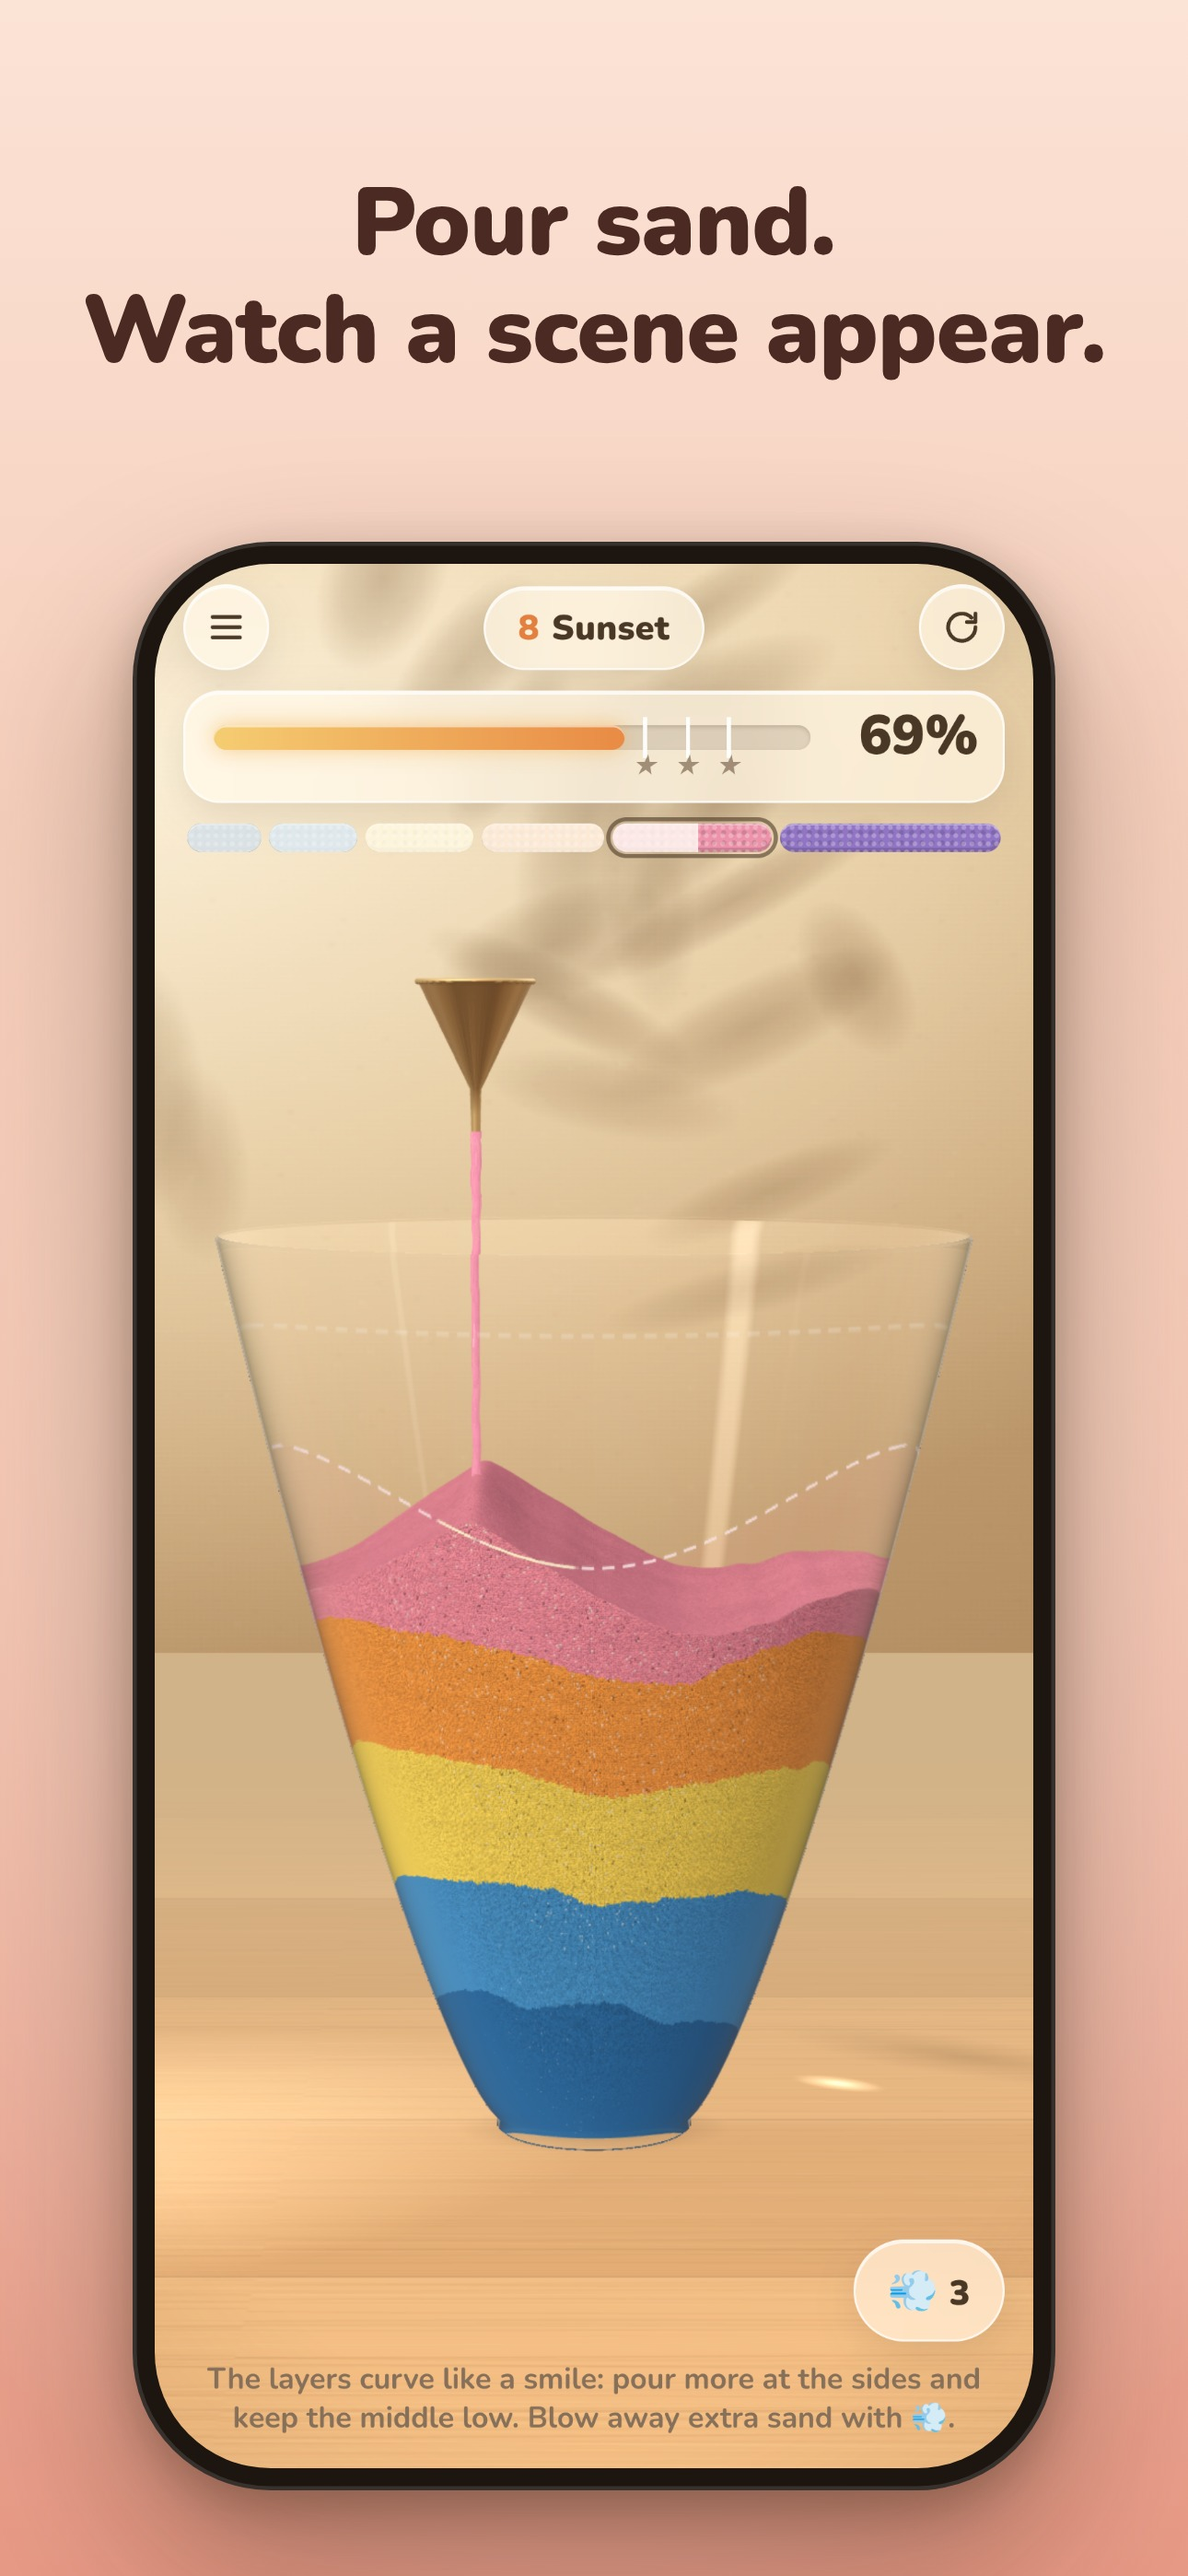
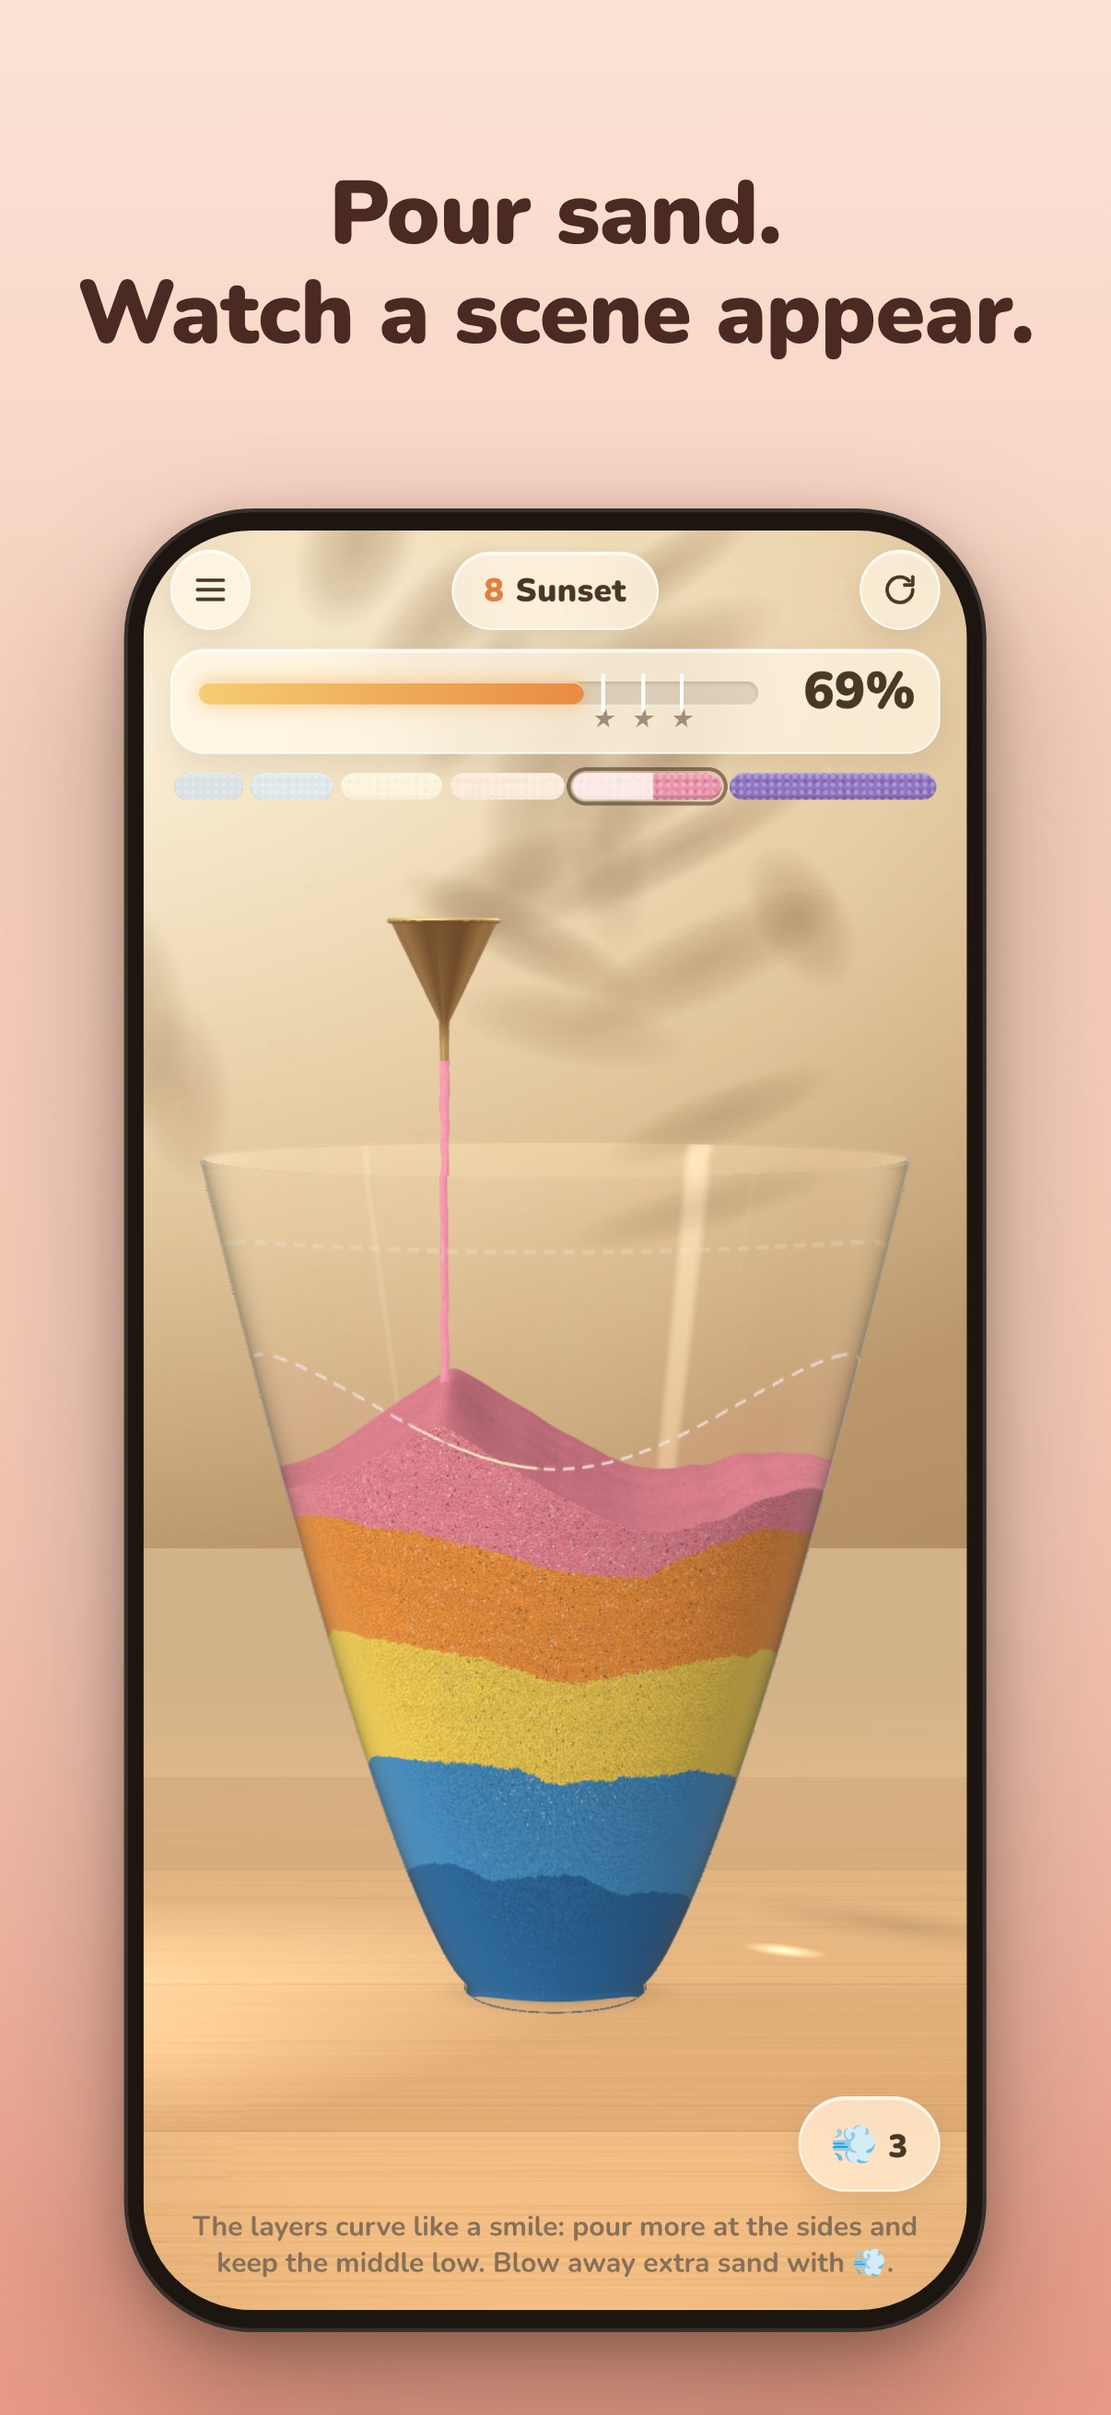
App Store ekran görüntüleri 1206x2622 (6.3"): App Store Connect 1290x2796'yı kabul etmedi
Claude-Session: https://claude.ai/code/session_01Gfm5ArxfWmNi2EcRMqgHBK

diff --git a/uygulamalar/sandful/scripts/ekran-kare.js b/uygulamalar/sandful/scripts/ekran-kare.js
@@ -1,4 +1,5 @@
-// ekran-ham.js görüntülerini başlıklı App Store karelerine çevirir: 430x932 @3x = 1290x2796, JPEG → magaza/ekran-goruntuleri/<dil>/
+// ekran-ham.js görüntülerini başlıklı App Store karelerine çevirir. App Store Connect'in istediği boyut: 1206x2622 (6.3" iPhone,
+// "iPhone with Dynamic Island, medium display"). Tasarım 430x932 CSS px sahnede çizilir, 402x874 @3x görünüme sığdırılır. JPEG → magaza/ekran-goruntuleri/<dil>/
 // Kullanım: NUNITO=<@fontsource/nunito/files> NODE_PATH=$(npm root -g) node uygulamalar/sandful/scripts/ekran-kare.js
 const {chromium}=require('playwright');const fs=require('fs');const path=require('path');
 const F=(process.env.NUNITO||'')+'/';const TMP=path.join(require('os').tmpdir(),'sandful-ekran');
@@ -14,18 +15,19 @@ const S=[
  ['06','6-raf',{en:'Fill your shelf<br>with calm',tr:'Rafını sakin<br>manzaralarla doldur'},['#f4e7d4','#e6cfae','#d4b28a'],'#4a3826'],
 ];
 (async()=>{const b=await chromium.launch({args:['--allow-file-access-from-files']});
- const p=await (await b.newContext({viewport:{width:430,height:932},deviceScaleFactor:3})).newPage();
+ const VW=402,VH=874,Z=VW/430;const p=await (await b.newContext({viewport:{width:VW,height:VH},deviceScaleFactor:3})).newPage();
  for(const lang of ['en','tr']){fs.mkdirSync(`${OUT}/${lang}`,{recursive:true});
   for(const [n,raw,cap,bg,ink] of S){
    const img=`file://${TMP}/raw-${lang}/${raw}.png`;
    fs.writeFileSync(TMP+'/_frame.html',`<!doctype html><meta charset="utf-8"><style>${font}
-    html,body{margin:0;width:430px;height:932px;overflow:hidden}
+    html,body{margin:0;width:100vw;height:100vh;overflow:hidden}
+    .st{position:absolute;left:0;top:${((VH-932*Z)/2).toFixed(2)}px;width:430px;height:932px;zoom:${Z}}
     body{background:radial-gradient(120% 70% at 50% 62%,rgba(255,255,255,.55),rgba(255,255,255,0) 60%),linear-gradient(180deg,${bg[0]} 0%,${bg[1]} 55%,${bg[2]} 100%);font-family:'Nunito',sans-serif;color:${ink};position:relative}
     h1{margin:0;position:absolute;top:62px;left:0;right:0;text-align:center;font-weight:900;font-size:34.5px;line-height:1.12;letter-spacing:-.2px}
     .ph{position:absolute;left:50%;top:196px;transform:translateX(-50%);width:318px;padding:8px;border-radius:50px;background:#1c1510;
         box-shadow:0 28px 60px rgba(40,20,5,.35),0 6px 16px rgba(40,20,5,.25),inset 0 0 0 1.5px rgba(255,255,255,.12)}
     .ph img{display:block;width:318px;height:${(318*932/430).toFixed(1)}px;border-radius:42px}
-   </style><h1>${cap[lang]}</h1><div class="ph"><img src="${img}"></div>`);await p.goto('file://'+TMP+'/_frame.html');
+   </style><div class="st"><h1>${cap[lang]}</h1><div class="ph"><img src="${img}"></div></div>`);await p.goto('file://'+TMP+'/_frame.html');
    await p.evaluate(()=>Promise.all([document.fonts.ready,...[...document.images].map(i=>i.decode())]));
    const file=`${OUT}/${lang}/${n}.jpg`;await p.screenshot({path:file,type:'jpeg',quality:92});
    console.log(file,Math.round(fs.statSync(file).size/1024)+'KB');}}

diff --git a/uygulamalar/sandful/scripts/ekran-ham.js b/uygulamalar/sandful/scripts/ekran-ham.js
@@ -1,4 +1,4 @@
-// App Store ham ekran görüntüleri: 430x932 @3x = 1290x2796 (6.9"), WebGL SwiftShader.
+// App Store ham ekran görüntüleri: 430x932 @3x, WebGL SwiftShader (ekran-kare.js bunları 1206x2622 karelere yerleştirir).
 // Kullanım: NODE_PATH=$(npm root -g) node uygulamalar/sandful/scripts/ekran-ham.js en-US|tr-TR
 // Yazı tipi için NUNITO=<@fontsource/nunito/files klasörü> (npm install @fontsource/nunito). Ham görüntüler geçici klasöre yazılır, sonra ekran-kare.js.
 const {chromium}=require('playwright');const fs=require('fs');const path=require('path');

diff --git a/uygulamalar/sandful/TESTFLIGHT.md b/uygulamalar/sandful/TESTFLIGHT.md
@@ -85,7 +85,7 @@ Bütün alanların değerleri: `magaza/app-store-metinleri.md` (ad, alt başlık
 
 1. **Gizlilik ve destek sayfası:** `magaza/site/` klasöründeki iki dosya şirket sitesinde `sandful` klasörüne yüklenir:
    destek `https://www.investa.com.tr/sandful/`, gizlilik `https://www.investa.com.tr/sandful/privacy.html`. Bu adresler App Store Connect'te Support URL ve Privacy Policy URL alanlarına girilir; Apple göndermeden önce açılıp açılmadığına bakar.
-2. **Ekran görüntüleri:** `magaza/ekran-goruntuleri/en/` ve `tr/` (6'şar, 1290×2796). iPhone 6.9" Display kutusuna 01 → 06 sırasıyla sürüklenir.
+2. **Ekran görüntüleri:** `magaza/ekran-goruntuleri/en/` ve `tr/` (6'şar, 1206×2622). "iPhone with Dynamic Island (medium display)" kutusuna 01 → 06 sırasıyla sürüklenir.
 3. **Metinler** İngilizce ve Türkçe sayfaya girilir, **Build** olarak TestFlight'taki derleme seçilir.
 4. **App Privacy:** "Data Not Collected". **Age Rating:** bütün cevaplar "None/No" → 4+.
 5. **Business:** AB'de yayın için "trader" (DSA) bilgisi girilmiş olmalı (hesap düzeyinde, bir kez).
@@ -110,4 +110,4 @@ npm run native     # ios/ ve android/ projelerini sıfırdan üretir, iOS ayarla
 - Oyunda değişiklik yapınca sadece `prototipler/01-kum-sisesi.html` düzenlenir; `ios-hazirla.sh` (ya da Codemagic) her derlemede `www/`'yi yeniden üretir.
 - Yeni sürüm yüklemeden önce `ios/App/App.xcodeproj/project.pbxproj` içindeki `CURRENT_PROJECT_VERSION` 1 artırılır (App Store aynı numarayı iki kez kabul etmez).
 - İkon ve açılış ekranı `scripts/make-icon.py` ile çizilir (`resources/`), `npm run assets` bütün boyutları üretir.
-- App Store ekran görüntüleri: `scripts/ekran-ham.js en-US` ve `tr-TR` (oyundan 1290×2796 çeker), ardından `scripts/ekran-kare.js` (başlık ve telefon çerçevesi ekler). Oyun görünümü değişince yeniden üretilir.
+- App Store ekran görüntüleri: `scripts/ekran-ham.js en-US` ve `tr-TR` (oyundan çeker), ardından `scripts/ekran-kare.js` (başlık ve telefon çerçevesi ekler, 1206×2622). Oyun görünümü değişince yeniden üretilir.

diff --git a/uygulamalar/sandful/magaza/app-store-metinleri.md b/uygulamalar/sandful/magaza/app-store-metinleri.md
@@ -63,8 +63,9 @@ Dök, nefes al, rahatla.
 
 ## Ekran görüntüleri
 
-`ekran-goruntuleri/en/` (İngilizce sayfa) ve `ekran-goruntuleri/tr/` (Türkçe sayfa): 6'şar adet, 1290×2796 (6.9" iPhone).
-App Store Connect'te **iPhone 6.9" Display** kutusuna sırayla (01 → 06) sürükle; Apple küçük iPhone'lar için kendisi küçültür.
+`ekran-goruntuleri/en/` (İngilizce sayfa) ve `ekran-goruntuleri/tr/` (Türkçe sayfa): 6'şar adet, 1206×2622 (6.3" iPhone).
+App Store Connect'te **iPhone with Dynamic Island (medium display)** kutusuna sırayla (01 → 06) sürükle; Apple diğer iPhone'lar için kendisi ölçekler.
+(Ekim 2026: bu kutu 1179×2556 ya da 1206×2622 kabul ediyor; 1290×2796 "File dimensions are invalid" hatası verdi.)
 Uygulama sadece iPhone için olduğundan iPad ekran görüntüsü istenmez.
 
 ## Diğer alanlar
